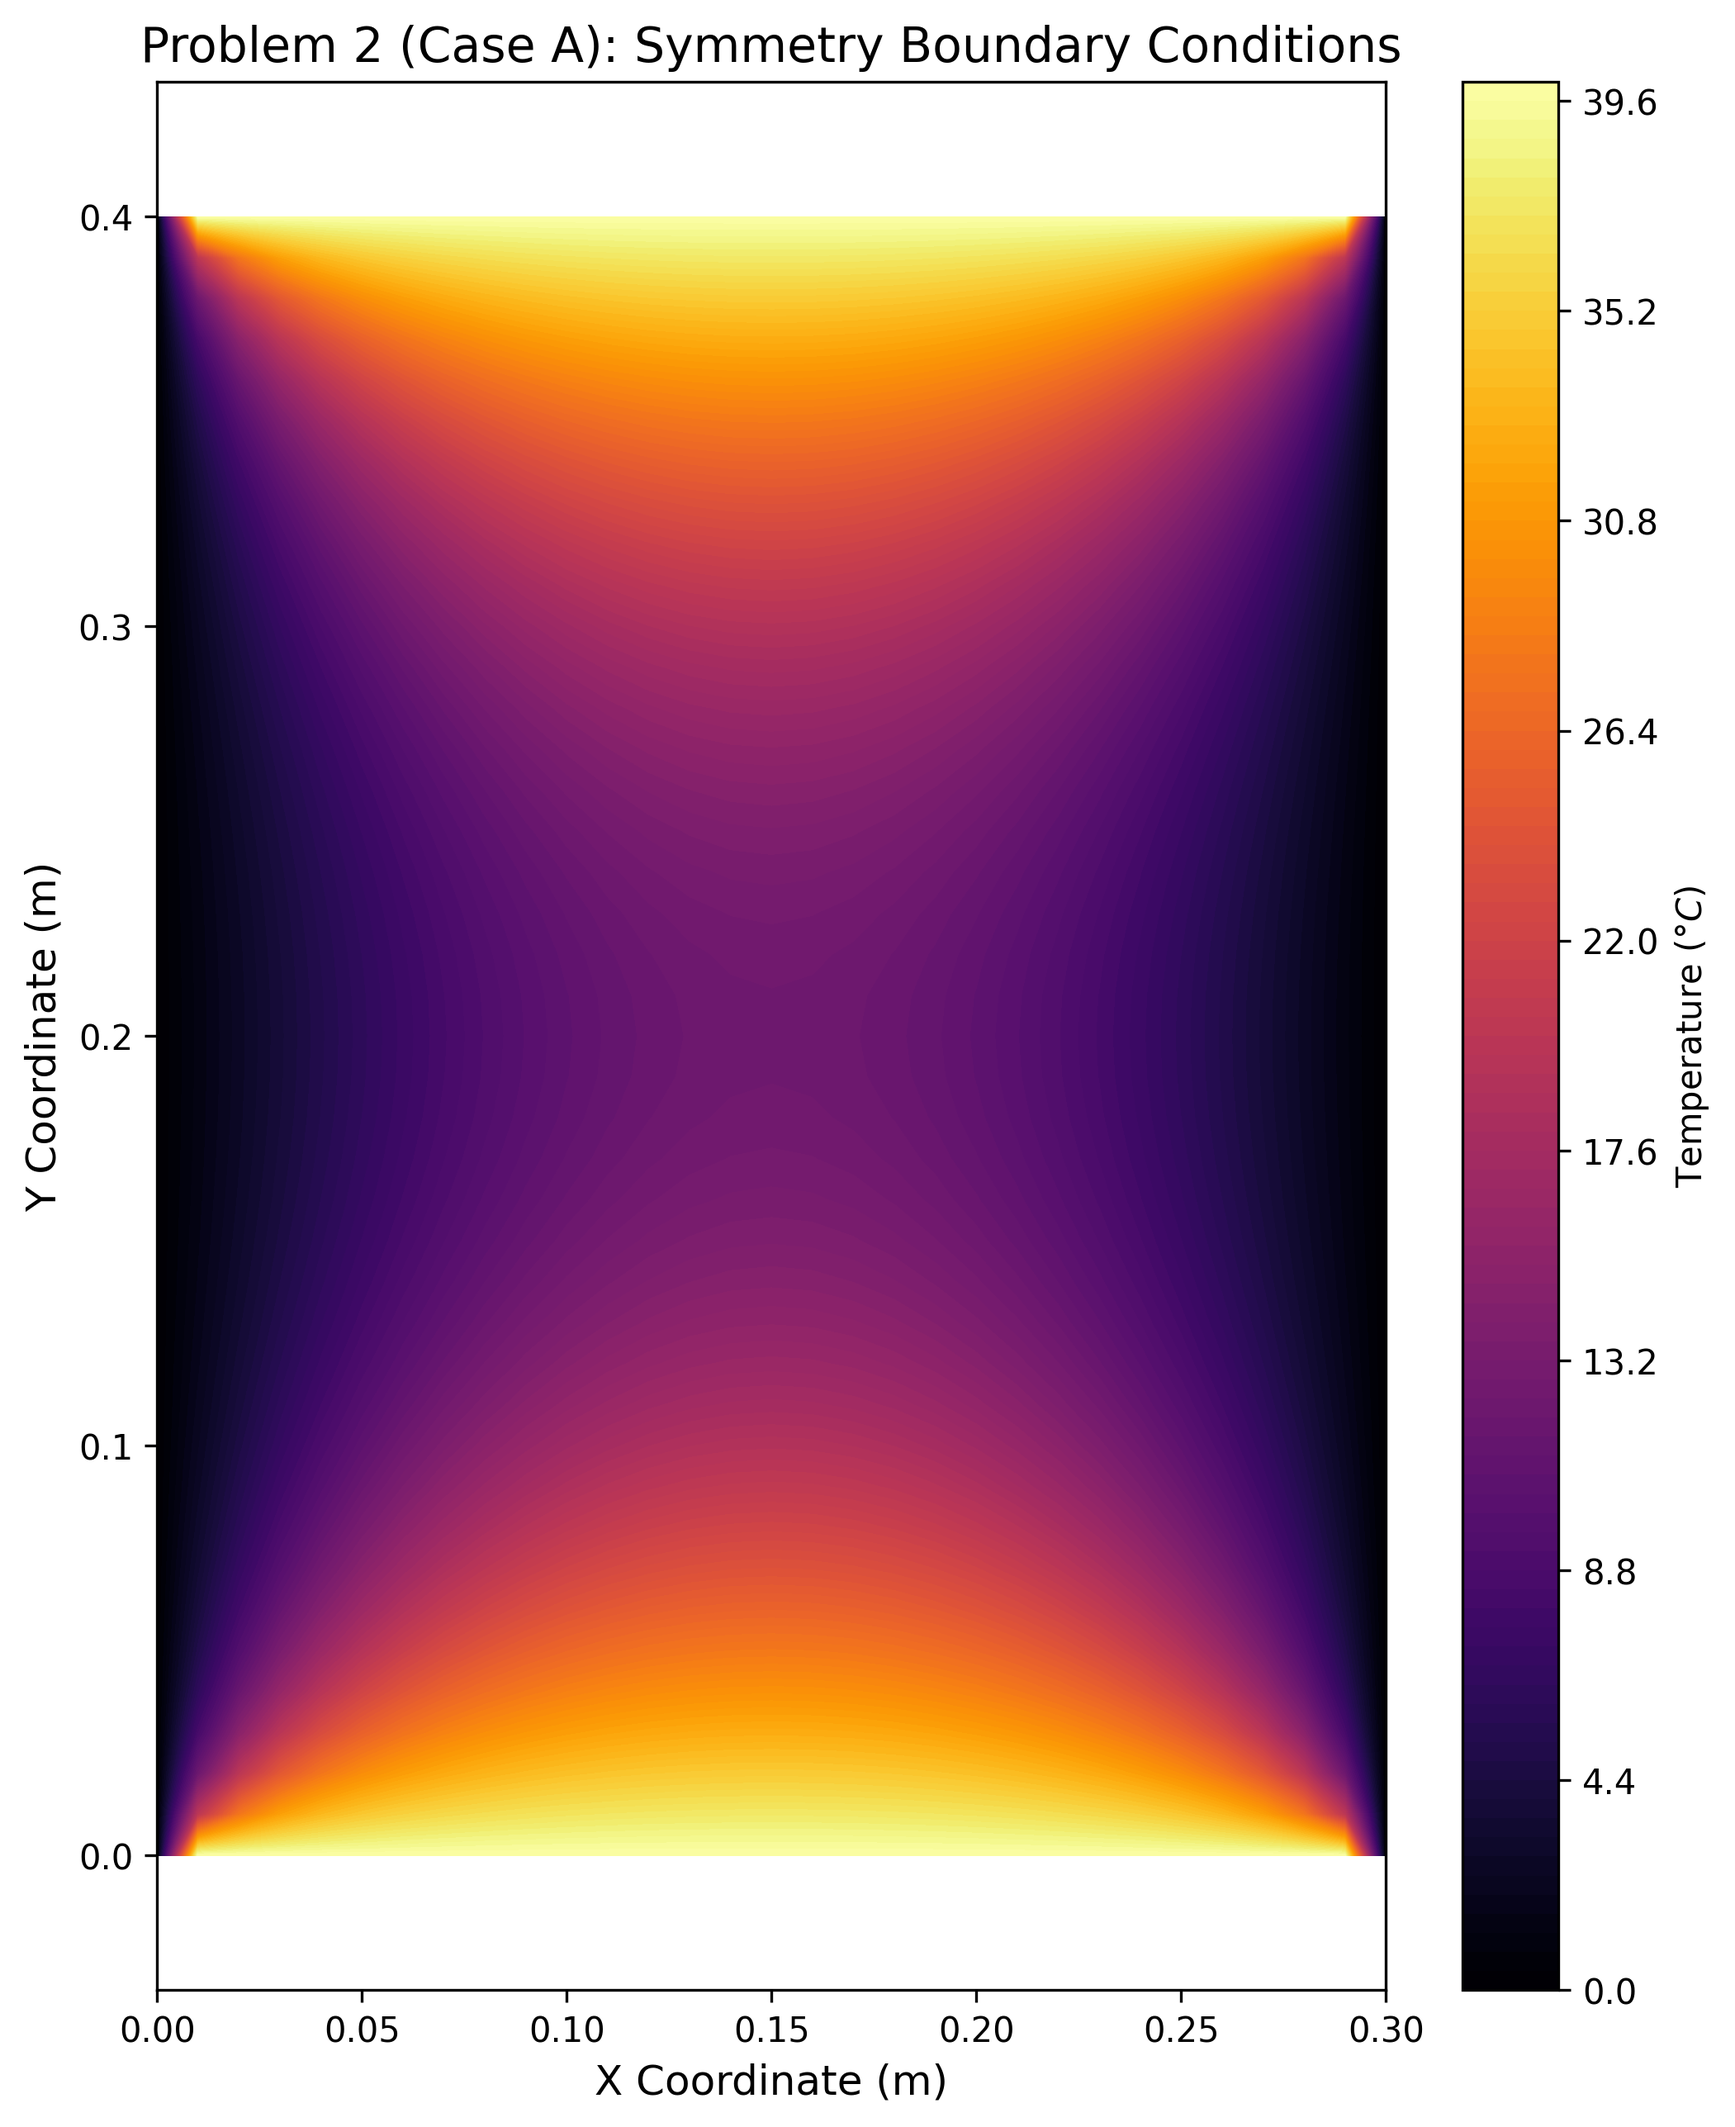
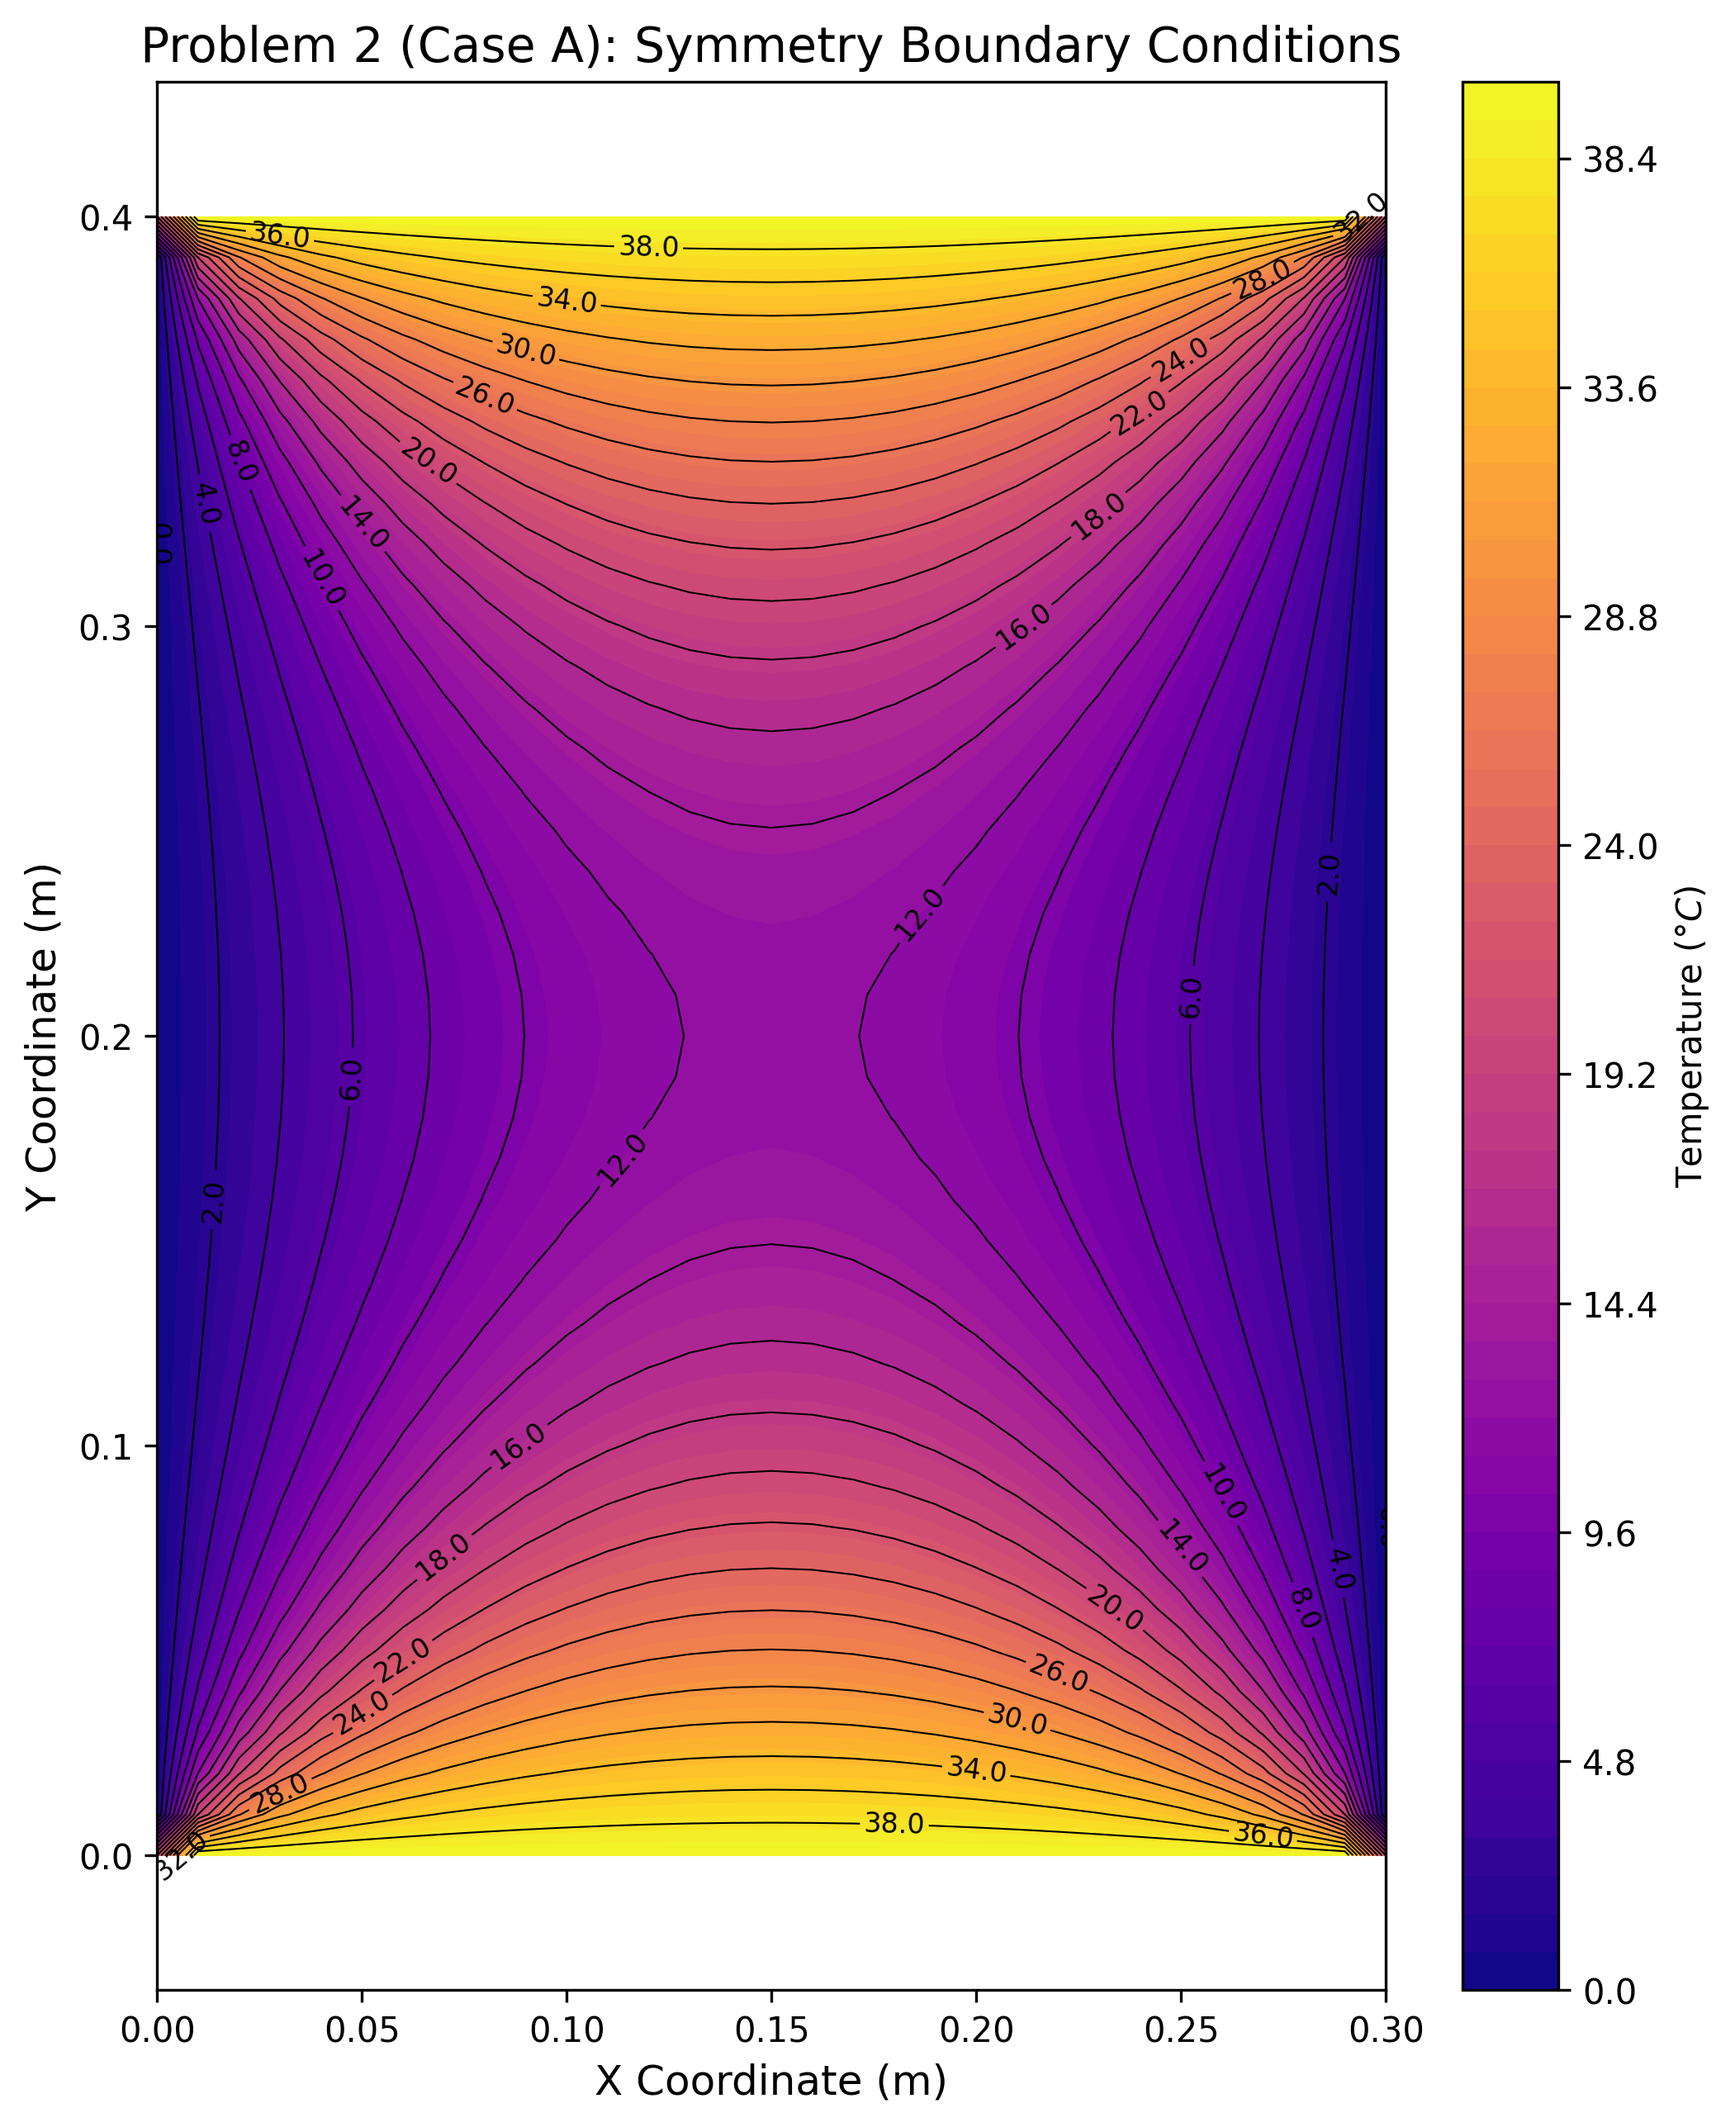
Updated handling of boundary conditions at corners in main.f90 and, Updated contour plot settings in plotter.py; added contour lines and adjusted levels for better visualization. Updated binary result images for problem cases.

diff --git a/Assignment_2/plotter.py b/Assignment_2/plotter.py
@@ -89,7 +89,9 @@ def generate_plots(config):
     T = grid.values
 
     plt.figure(figsize=(8, 10))
-    contour = plt.contourf(X, Y, T, levels=100, cmap="inferno")
+    contour = plt.contourf(X, Y, T, levels=50, cmap="plasma")
+    contour_lines = plt.contour(X, Y, T, levels=20, colors="black", linewidths=0.5)
+    plt.clabel(contour_lines, inline=True, fontsize=8, fmt="%1.1f")
     plt.colorbar(contour, label="Temperature $(\\degree C)$")
 
     plt.title(config["title"], fontsize=14)
@@ -170,6 +172,3 @@ if __name__ == "__main__":
 
     print("=========================================================")
     print("[SUCCESS] All post-processing complete.")
-
-    # Display the plots
-    # plt.show()
